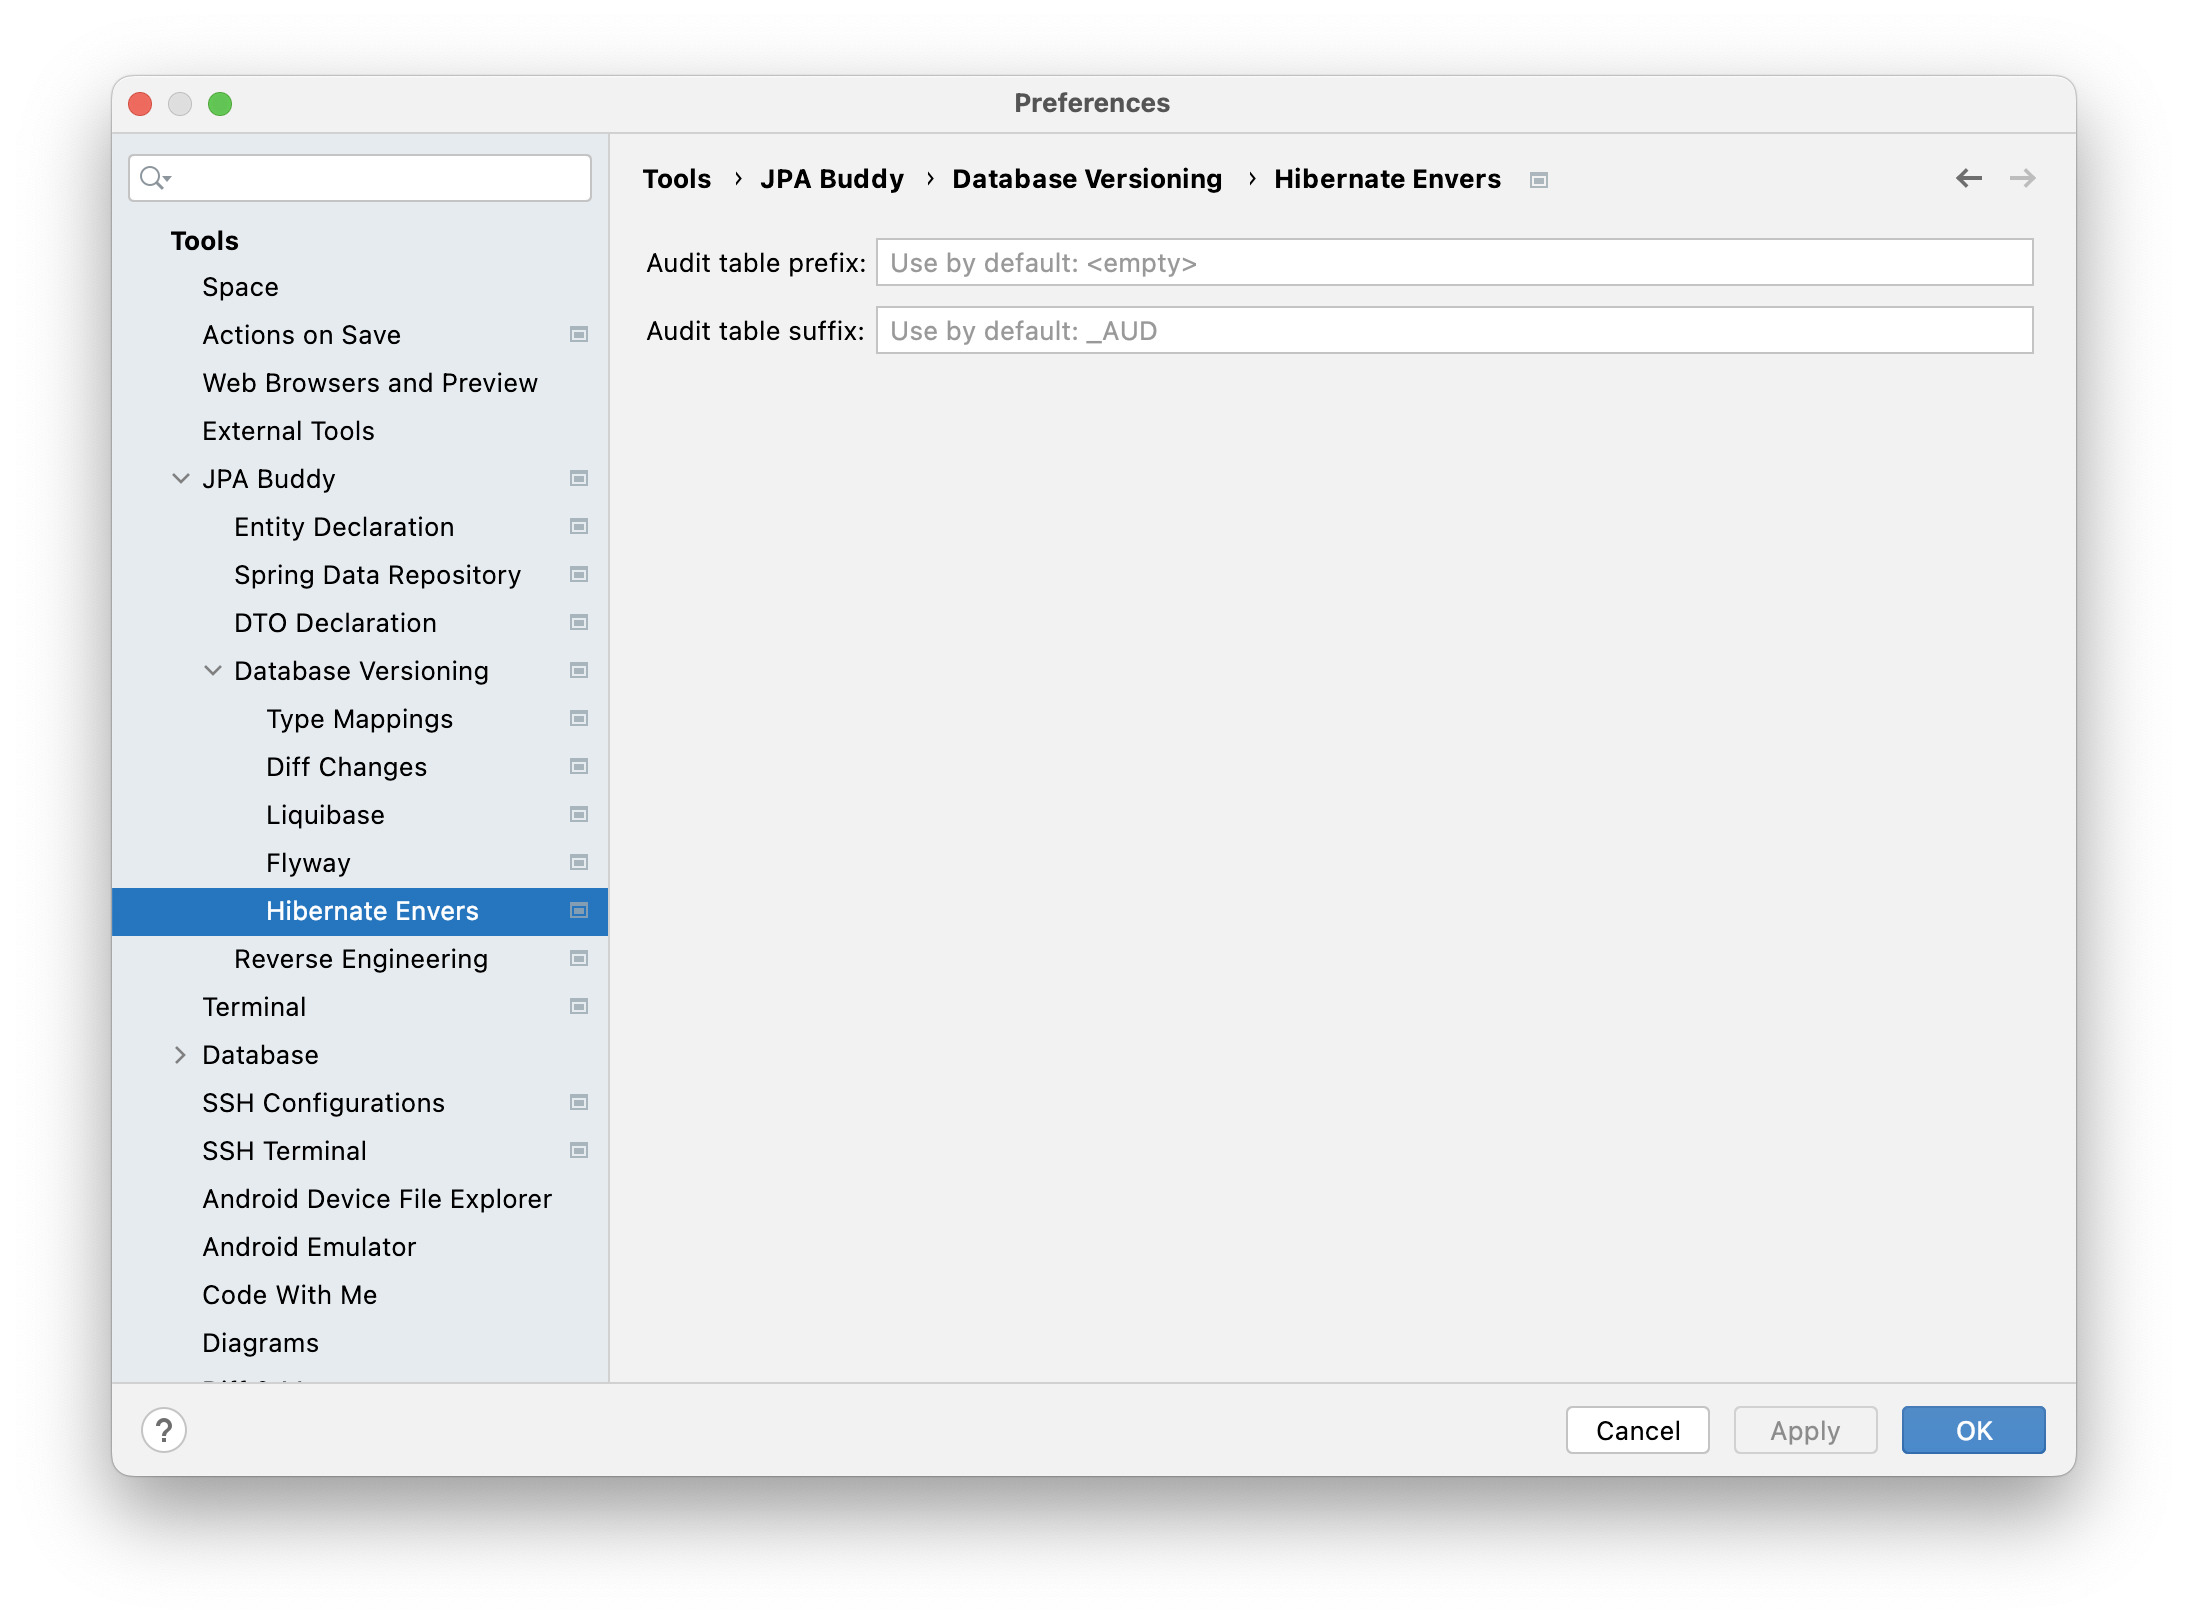
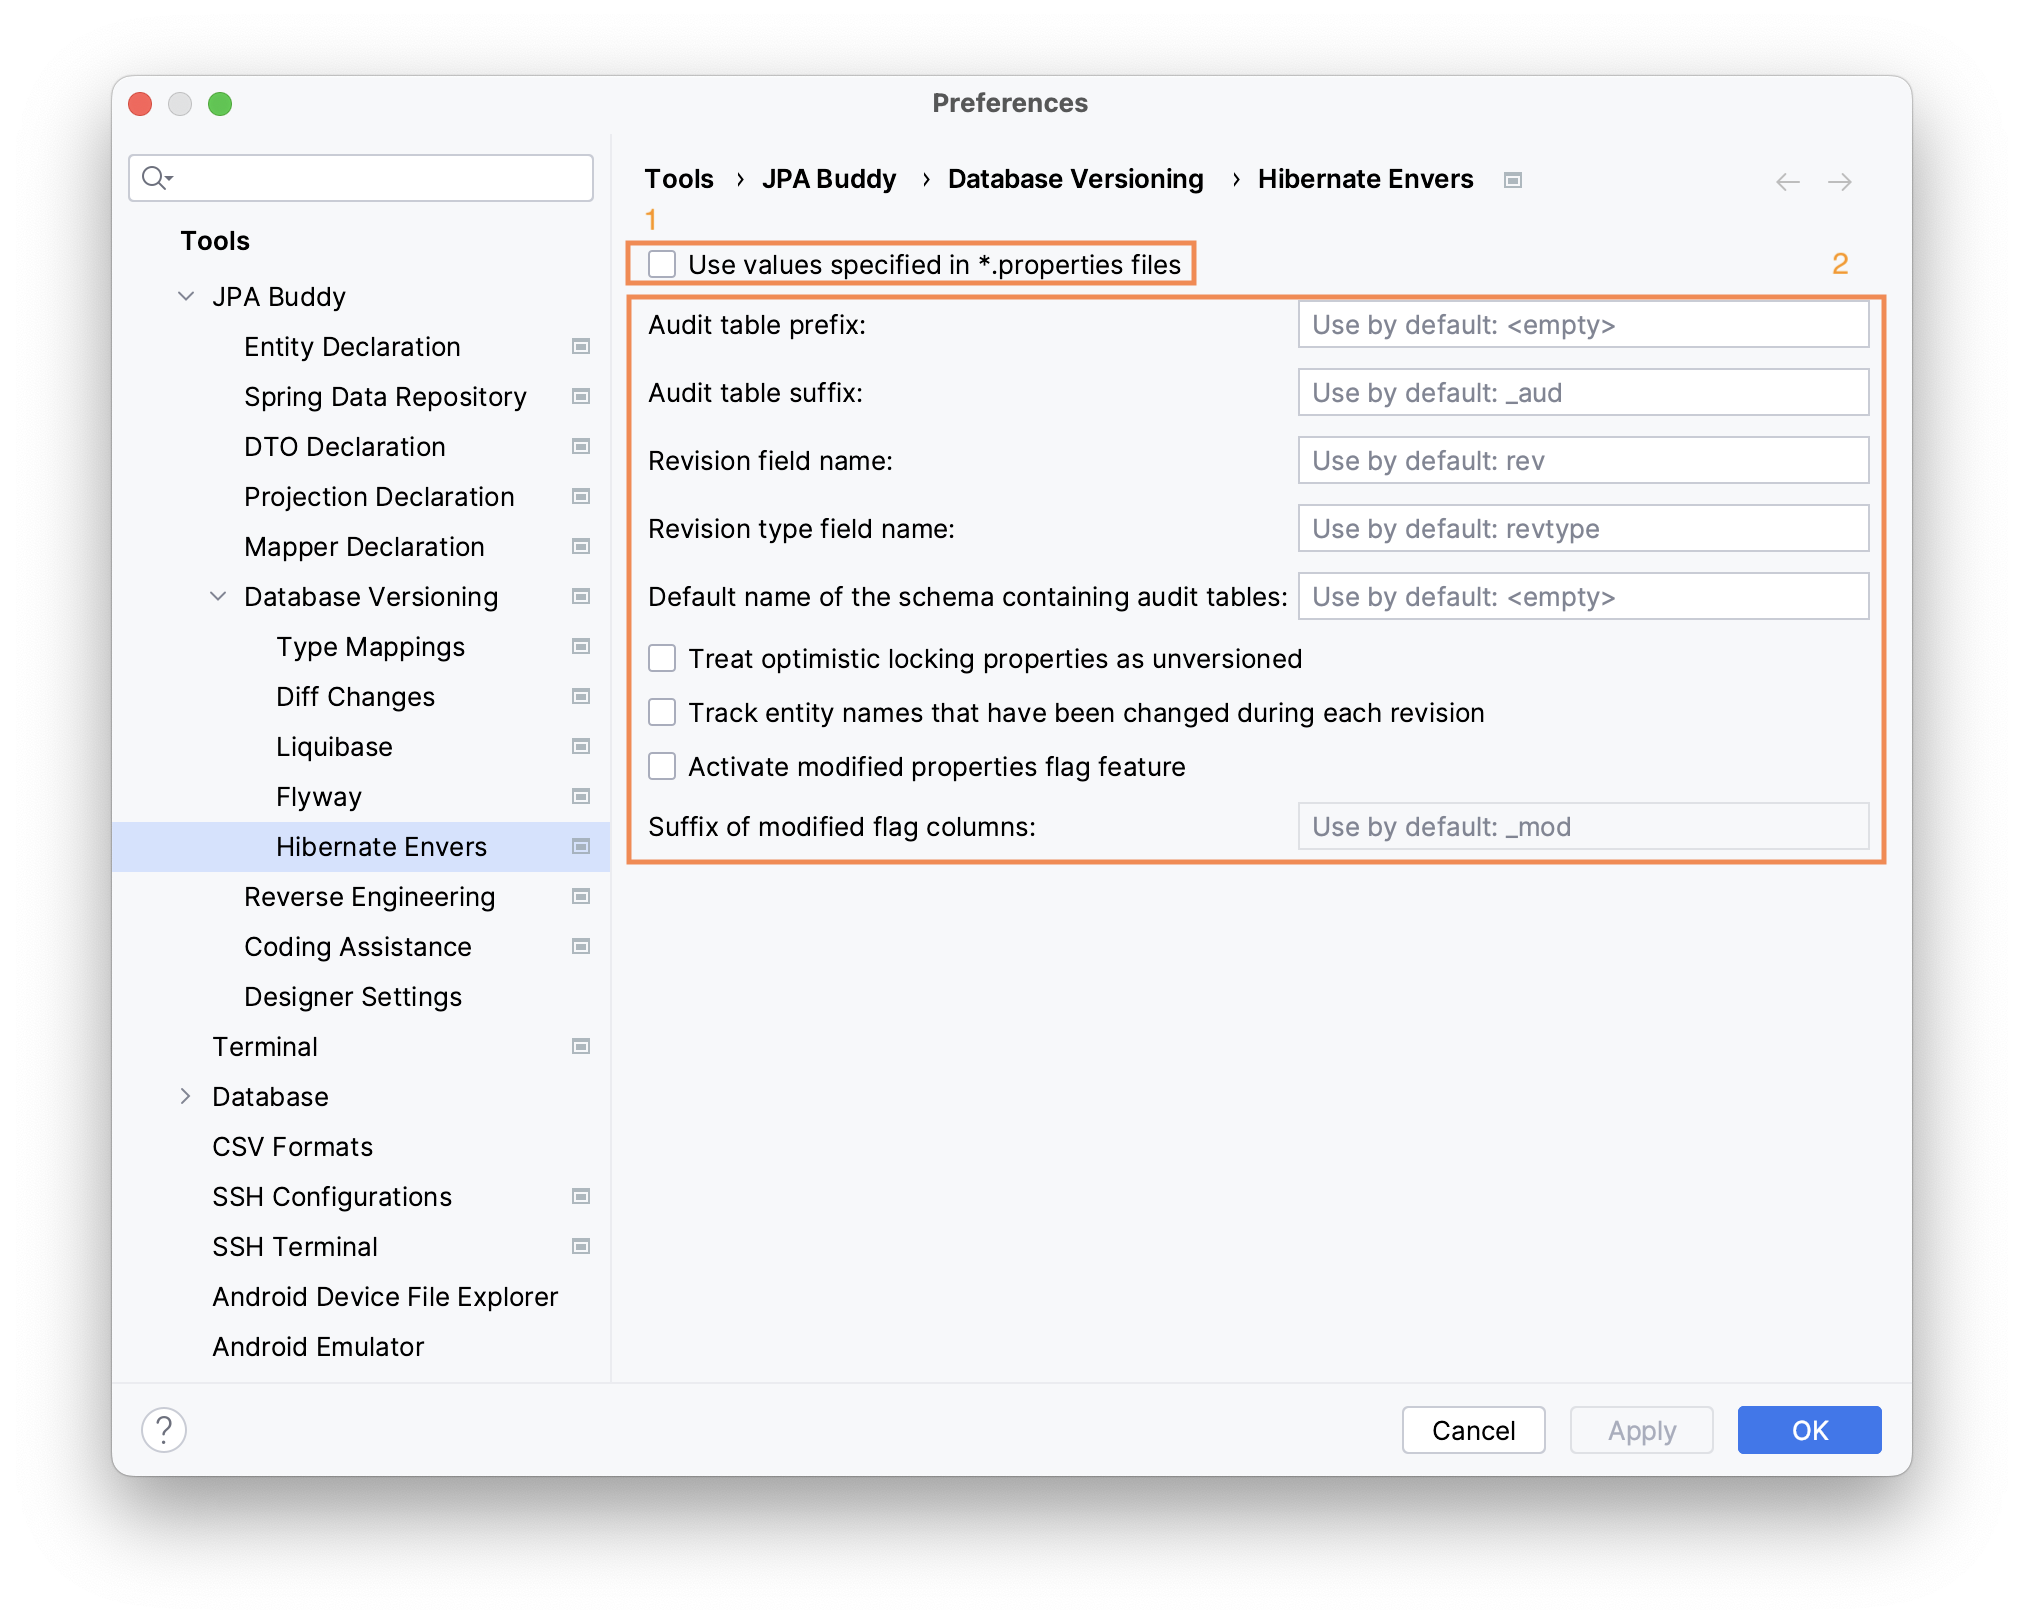
Hibernate Envers Support for Diff Generator #195

Changed region(s): [[0.0311, 0.0616, 0.9649, 0.8929], [0.249, 0.7697, 0.2801, 0.8005], [0.249, 0.6773, 0.2801, 0.7081]]

diff --git a/database-versioning/database-versioning.md b/database-versioning/database-versioning.md
@@ -570,6 +570,16 @@ Before Hibernate 6, the Hibernate Types library or `@Type`/`@Converter` annotati
 
 * `@TimeZoneStorage` & `@TimeZoneColumn`
 
+## Hibernate Envers Support
+
+<a href="https://hibernate.org/orm/envers/" target="_blank">Hibernate Envers</a> is a module that enables easy auditing of entities in a database. JPA Buddy can generate all the required tables for Hibernate Envers to function correctly. This includes audit tables for entities marked with the `@Audited` annotation and revision table for the entity annotated with `@RevisionEntity` annotation. Check out how it works in action:
+
+<div class="youtube">
+<iframe width="560" height="315" src="https://www.youtube.com/embed/k5OTgQBmSrg" title="YouTube video player" allow="accelerometer; autoplay; clipboard-write; encrypted-media; gyroscope; picture-in-picture" allowfullscreen></iframe>
+</div>
+
+JPA Buddy offers flexible settings for Hibernate Envers. You can find more information about these settings in the [relevant section](#hibernate-envers).
+
 ## Settings
 
 ### Custom Type Mappings
@@ -728,59 +738,11 @@ Each DB-agnostic type has a set of aliases (for example, "java.sql.Types.VARCHAR
 </table>
 </div>
 
-### Hibernate Envers Support
-
-<a href="https://hibernate.org/orm/envers/" target="_blank">Hibernate Envers</a> provides an easy auditing solution for entity classes. JPA Buddy, in its turn, allows you to define the prefix and postfix for audit tables. If these values are configured in the `.properties` file via `org.hibernate.envers.audit_table_prefix` and `org.hibernate.envers.audit_table_suffix`, Buddy will automatically apply them. These values will be considered while the script generation.
+### Hibernate Envers
 
 ![hibernate-envers-settings](img/hibernate-envers-settings.png)
 
-For example, if you have the following entity:
-
-```java
-@Audited
-@Entity(name = "Customer")
-public static class Customer {
-
-	@Id
-	private Long id;
-
-	private String firstName;
-
-	private String lastName;
-
-	@Temporal(TemporalType.TIMESTAMP)
-	@Column(name = "created_on")
-	@CreationTimestamp
-	private Date createdOn;
-
-	//Getters and setters are omitted for brevity
-
-}
-```
-
-In the database, it will be mapped to the two, and not one table:
-
-```sql
-create table Customer (
-    id bigint not null,
-    created_on timestamp,
-    firstName varchar(255),
-    lastName varchar(255),
-    primary key (id)
-)
-
-create table Customer_AUD (
-    id bigint not null,
-    REV integer not null,
-    REVTYPE tinyint,
-    created_on timestamp,
-    firstName varchar(255),
-    lastName varchar(255),
-    primary key (id, REV)
-)
-```
-
-When generating migration scripts, JPA Buddy will understand that the `Customer_AUD` table doesn't have to have a corresponding JPA entity, and will not generate a drop statement for it.
+Hibernate Envers offers a lot of customization options. You can specify the desired configuration in the JPA Buddy settings (2), or let JPA Buddy read the existing settings from `.properties` files automatically (1).
 
 ### Naming Strategy
 
